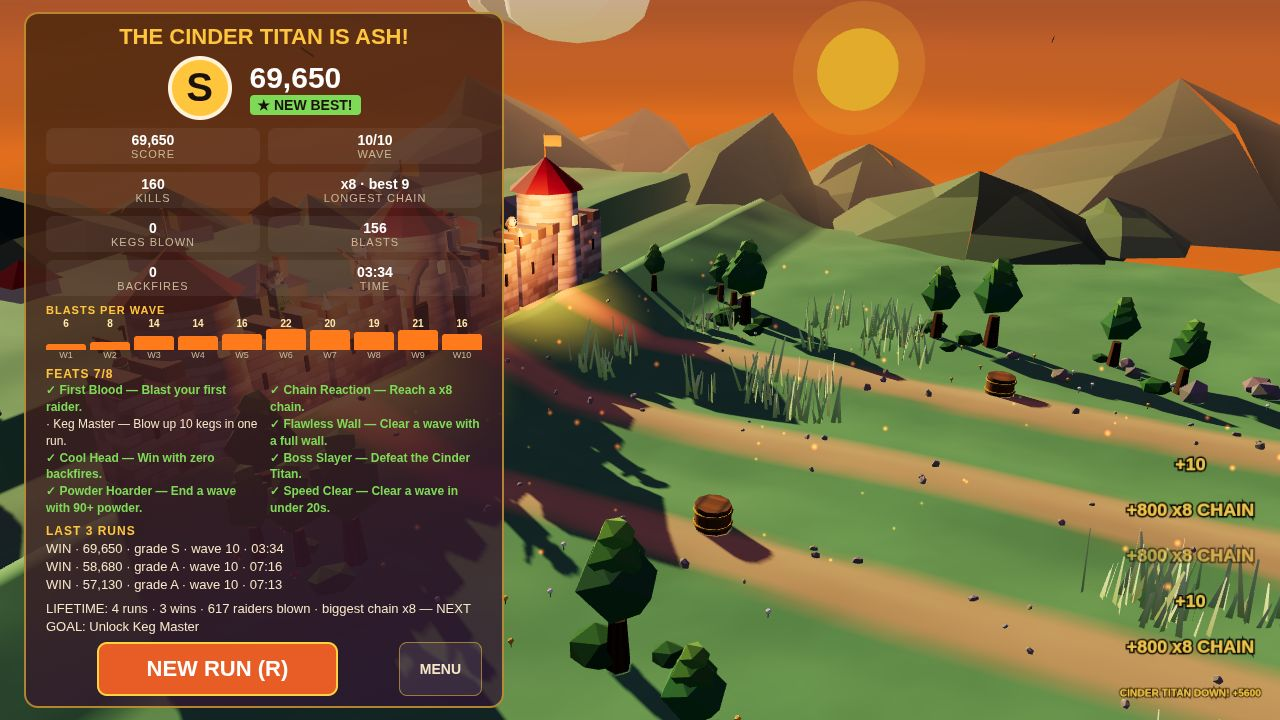
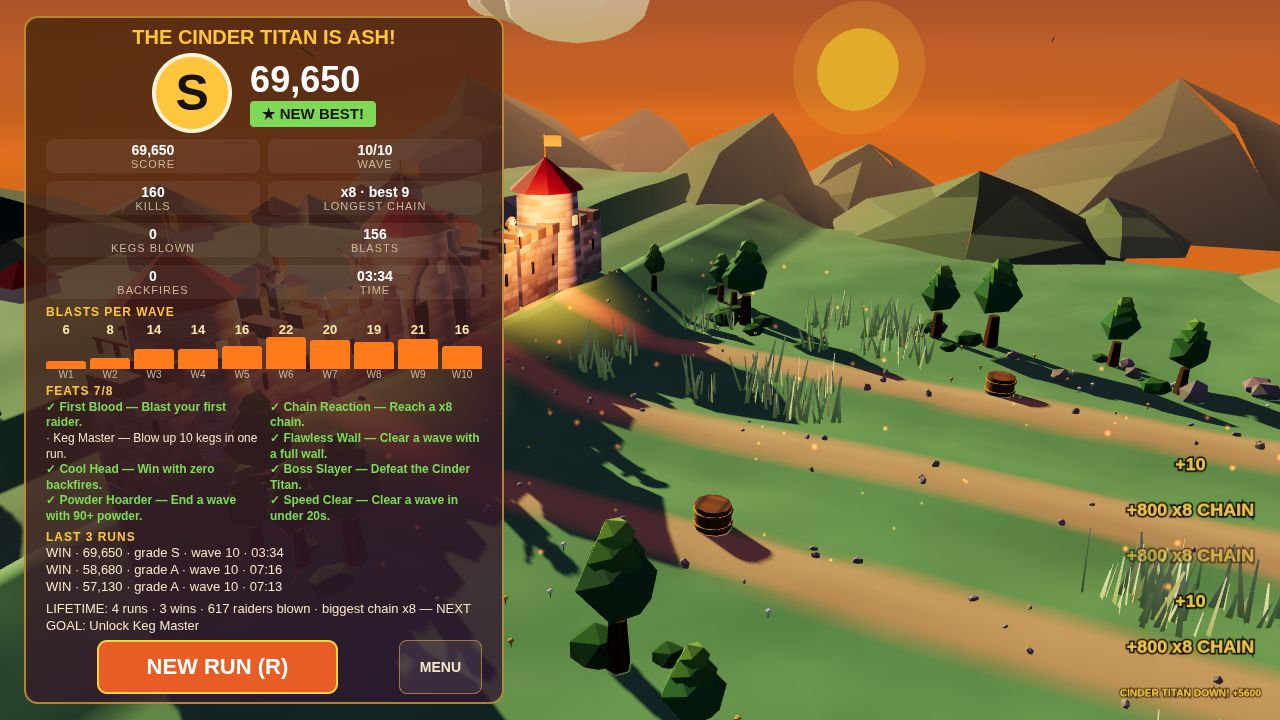
R4D: title panel smaller + translucent, draft backdrop + synergy legible, win chart thicker + GRADE S/NEW BEST dominant (Mark 00:51 WIB, items 8+E4, 11, 12+E3)
Title 600x501 (32.6%, alpha 0.62) -> 560x469 (28.5%, alpha 0.45):
fort + trail show through the panel; title 44->40px still one line;
roster 12->13px. Draft alpha 0.70->0.52; synergy 12->14px brighter.
Results: grade 64->80px, score 30->36px, NEW BEST 14->15px, chart
bars 42->58px with 13px numbers; panel 696.9->687.4px (tightening paid
for the growth). Numbers unchanged (BEST 69,650 / action 59,550 /
draft 21,050 / S 69,650). Determinism --twice MATCH 5/5, 0 errors.

Changed region(s): [[0.0312, 0.0, 0.4062, 0.825], [0.0, 0.8556, 0.4062, 1.0]]

diff --git a/game/index.html b/game/index.html
@@ -65,13 +65,17 @@
   .screen-title { align-items: flex-start; justify-content: flex-start; padding: 20px 0 0 24px; }
   .screen-results { align-items: center; justify-content: flex-start; padding: 12px 0 12px 24px; }
   .title-wrap, .draft-wrap, .results-wrap, .help-wrap { background: rgba(18, 14, 8, 0.70); border: 2px solid rgba(255, 197, 61, 0.6); border-radius: 14px; padding: 14px 20px; max-width: 1020px; width: 100%; color: #f5e6c8; }
-  .title-wrap { max-width: 600px; background: rgba(18, 14, 8, 0.62); }
+  .title-wrap { max-width: 560px; background: rgba(18, 14, 8, 0.45); padding: 10px 18px; text-shadow: 0 1px 3px rgba(0,0,0,0.85); }
+  /* ROUND 4 AGENT D (item 11): the draft backdrop was hidden behind a
+     0.70-alpha panel — 0.52 lets the fort + field show through; the
+     text-shadow keeps the cards legible over the bright world. */
+  .draft-wrap { background: rgba(18, 14, 8, 0.52); text-shadow: 0 1px 3px rgba(0,0,0,0.8); }
   .results-wrap { max-width: 480px; background: rgba(18, 14, 8, 0.62); }
   .results-wrap .stat-grid { grid-template-columns: repeat(2, 1fr); }
-  .game-title { font-size: 44px; font-weight: 900; letter-spacing: 4px; color: #ffc53d; text-align: center; text-shadow: 0 0 24px rgba(255, 180, 60, 0.6), 0 3px 0 #7a4a00; line-height: 1; }
-  .tagline { text-align: center; font-size: 15px; font-weight: bold; color: #ffe9a8; margin: 8px 0 12px; letter-spacing: 1px; }
-  .goal-line { text-align: center; font-size: 13px; font-weight: 900; color: #ffe9a8; margin-bottom: 10px; letter-spacing: 0.5px; }
-  .roster-line { font-size: 12px; line-height: 1.7; color: #c8b898; margin-bottom: 12px; text-align: center; }
+  .game-title { font-size: 40px; font-weight: 900; letter-spacing: 4px; color: #ffc53d; text-align: center; text-shadow: 0 0 24px rgba(255, 180, 60, 0.6), 0 3px 0 #7a4a00; line-height: 1; }
+  .tagline { text-align: center; font-size: 15px; font-weight: bold; color: #ffe9a8; margin: 6px 0 9px; letter-spacing: 1px; }
+  .goal-line { text-align: center; font-size: 13px; font-weight: 900; color: #ffe9a8; margin-bottom: 8px; letter-spacing: 0.5px; }
+  .roster-line { font-size: 13px; line-height: 1.7; color: #c8b898; margin-bottom: 9px; text-align: center; }
   .roster-line .roster-group { color: #ffc53d; font-weight: 900; letter-spacing: 1px; }
   .roster-line .roster-name { font-weight: bold; color: #f5e6c8; }
   .chip-row { display: grid; grid-template-columns: repeat(3, 1fr); gap: 8px; margin-bottom: 12px; }
@@ -88,12 +92,12 @@
   .how-strip { display: flex; align-items: center; gap: 6px; flex-wrap: wrap; justify-content: center; margin-bottom: 12px; font-size: 13px; }
   .how-step { background: rgba(255, 122, 26, 0.15); border: 1px solid rgba(255, 122, 26, 0.5); border-radius: 6px; padding: 5px 8px; font-weight: bold; }
   .how-arrow { color: #ffc53d; font-weight: bold; }
-  .diff-row { display: flex; gap: 8px; justify-content: center; margin-bottom: 10px; }
+  .diff-row { display: flex; gap: 8px; justify-content: center; margin-bottom: 8px; }
   .diff-btn { background: rgba(255,255,255,0.07); color: #f5e6c8; border: 2px solid rgba(255,197,61,0.4); border-radius: 8px; padding: 8px 18px; font-size: 14px; font-weight: bold; cursor: pointer; }
   .diff-btn.active { background: #ffc53d; color: #1a120c; }
-  .title-stats { display: flex; gap: 16px; justify-content: center; flex-wrap: wrap; font-size: 13px; font-weight: bold; color: #ffe9a8; margin-bottom: 12px; }
+  .title-stats { display: flex; gap: 16px; justify-content: center; flex-wrap: wrap; font-size: 13px; font-weight: bold; color: #ffe9a8; margin-bottom: 9px; }
   .play-btn { display: block; margin: 0 auto; background: #e85d26; color: #fff; border: 2px solid #ffd23f; border-radius: 10px; padding: 12px 48px; font-size: 22px; font-weight: 900; cursor: pointer; }
-  .controls-line { text-align: center; font-size: 12px; color: #c8b898; margin-top: 12px; }
+  .controls-line { text-align: center; font-size: 12px; color: #c8b898; margin-top: 9px; }
   .draft-title, .results-title, .help-title { font-size: 26px; font-weight: 900; color: #ffc53d; text-align: center; margin-bottom: 10px; }
   .draft-context { text-align: center; font-size: 13px; color: #ffe9a8; margin-bottom: 12px; }
   .card-row { display: flex; gap: 10px; justify-content: center; }
@@ -106,7 +110,7 @@
   .card-new { position: absolute; top: 8px; right: 8px; background: #e85d26; color: #fff; font-size: 11px; font-weight: 900; border-radius: 4px; padding: 2px 6px; }
   .card-name { font-size: 18px; font-weight: 900; margin: 6px 0 4px; }
   .card-effect { font-size: 15px; font-weight: bold; color: #ffe9a8; }
-  .card-synergy { font-size: 12px; color: #c8b898; margin-top: 6px; line-height: 1.4; }
+  .card-synergy { font-size: 14px; color: #e6d9b8; margin-top: 6px; line-height: 1.45; }
   .card-cost { font-size: 13px; font-weight: 900; color: #ffc53d; margin-top: 8px; }
   .draft-actions { display: flex; gap: 10px; justify-content: center; margin: 14px 0 8px; }
   .draft-btn { background: rgba(255,255,255,0.08); color: #f5e6c8; border: 1px solid rgba(255,197,61,0.5); border-radius: 8px; padding: 10px 20px; font-size: 14px; font-weight: bold; cursor: pointer; }
@@ -131,7 +135,7 @@
   .feats-title, .last3-title, .fors-title { font-size: 12px; font-weight: 900; color: #ffc53d; letter-spacing: 1px; }
   .feat.got { color: #7ed957; font-weight: bold; }
   .fors-item.met { color: #7ed957; }
-  .results-actions { display: flex; gap: 10px; justify-content: center; margin-top: 6px; }
+  .results-actions { display: flex; gap: 10px; justify-content: center; margin-top: 4px; }
   .help-row { display: flex; gap: 12px; margin-bottom: 8px; font-size: 14px; line-height: 1.4; }
   .help-key { min-width: 210px; font-weight: 900; color: #ffc53d; }
   /* ROUND 3 AGENT D — HUD additions (items 2, 3, 6, 7). */
@@ -167,14 +171,14 @@
   .event-banner { position: absolute; top: 38vh; left: 50%; transform: translateX(-50%); font-size: 56px; font-weight: 900; letter-spacing: 3px; color: #ffd23f; text-shadow: 0 0 18px rgba(255, 140, 30, 0.8), 0 3px 0 #7a4a00, 0 2px 8px rgba(0,0,0,0.8); white-space: nowrap; pointer-events: none; z-index: 7; }
   /* ROUND 3 AGENT D — title: how-to cards with diagrams (item 10) +
      THREAT → ANSWER roster (item 5). */
-  .how-strip { display: flex; gap: 8px; justify-content: center; margin-bottom: 10px; }
+  .how-strip { display: flex; gap: 8px; justify-content: center; margin-bottom: 8px; }
   .how-card { flex: 1; background: rgba(255, 122, 26, 0.12); border: 1px solid rgba(255, 122, 26, 0.45); border-radius: 8px; padding: 6px 8px 7px; text-align: center; }
-  .how-diagram { height: 28px; display: flex; align-items: center; justify-content: center; margin-bottom: 2px; }
+  .how-diagram { height: 24px; display: flex; align-items: center; justify-content: center; margin-bottom: 2px; }
   .how-card-title { font-size: 12px; font-weight: 900; color: #ffc53d; letter-spacing: 0.5px; }
   .how-card-text { font-size: 11px; line-height: 1.3; color: #f5e6c8; margin-top: 1px; }
-  .threat-table { margin-bottom: 10px; }
+  .threat-table { margin-bottom: 8px; }
   .threat-table-title { color: #ffc53d; font-size: 11px; font-weight: 900; letter-spacing: 1px; text-align: center; margin-bottom: 4px; }
-  .threat-table-row { display: flex; align-items: baseline; gap: 6px; font-size: 12px; line-height: 1.55; }
+  .threat-table-row { display: flex; align-items: baseline; gap: 6px; font-size: 13px; line-height: 1.45; }
   .threat-table-name { font-weight: 900; color: #f5e6c8; white-space: nowrap; }
   .threat-table-behavior { color: #c8b898; }
   .threat-table-arrow { color: #ffc53d; font-weight: 900; }
@@ -191,7 +195,7 @@
   /* ROUND 3 AGENT D — results: golden-hour gradient backdrop + NEW BEST
      badge (item 8). */
   .results-wrap { background: linear-gradient(160deg, rgba(74, 38, 10, 0.82), rgba(46, 22, 52, 0.78)); }
-  .new-best-badge { background: #7ed957; color: #1a120c; border-radius: 4px; padding: 2px 8px; display: inline-block; }
+  .new-best-badge { background: #7ed957; color: #1a120c; border-radius: 4px; padding: 4px 12px; display: inline-block; font-size: 15px; font-weight: 900; }
   @media (max-width: 760px) {
     .game-title { font-size: 40px; }
     .chip-row { grid-template-columns: repeat(2, 1fr); }
@@ -209,23 +213,29 @@
   }
   /* Results panel compaction (must fit 720px viewport; was 918px tall):
      these rules sit last so they win over the base rules above. */
-  .results-wrap { padding: 10px 20px; }
-  .results-title { font-size: 22px; margin-bottom: 6px; }
-  .grade-row { margin-bottom: 8px; }
-  .grade-circle { width: 64px; height: 64px; font-size: 40px; }
-  .score-num { font-size: 30px; }
-  .stat-grid { margin-bottom: 8px; }
-  .stat-cell { padding: 4px; }
+  /* ROUND 4 AGENT D (items 12+E3): GRADE S + NEW BEST dominant and the
+     per-wave chart thicker — the payoff must read at a glance. Grade
+     circle 64→80px, score 30→36px, badge 14→15px, chart bars 42→58px
+     with 13px numbers. The panel was already at the 696px limit, so
+     every added px is paid for by tightening (title 22→20px, stat
+     padding 4→3px, feats/last3 line-height 1.3/1.4→1.2/1.3, margins). */
+  .results-wrap { padding: 8px 20px; }
+  .results-title { font-size: 20px; margin-bottom: 4px; }
+  .grade-row { margin-bottom: 6px; }
+  .grade-circle { width: 80px; height: 80px; font-size: 50px; }
+  .score-num { font-size: 36px; }
+  .stat-grid { margin-bottom: 6px; }
+  .stat-cell { padding: 3px; }
   .stat-value { font-size: 14px; }
-  .chart { margin-bottom: 6px; }
-  .chart-title { font-size: 11px; margin-bottom: 2px; }
-  .chart-bars { height: 42px; }
-  .chart-num { font-size: 10px; }
-  .chart-wave { font-size: 9px; }
+  .chart { margin-bottom: 4px; }
+  .chart-title { font-size: 12px; margin-bottom: 3px; }
+  .chart-bars { height: 58px; }
+  .chart-num { font-size: 13px; font-weight: 900; }
+  .chart-wave { font-size: 10px; }
   .chart-fill-wrap { flex: 1; width: 100%; display: flex; align-items: flex-end; min-height: 0; }
-  .feats-box, .last3-box, .build-box, .goal-box, .fors-box, .lifetime-box { margin-bottom: 6px; line-height: 1.4; }
-  .feats-box { display: grid; grid-template-columns: 1fr 1fr; column-gap: 12px; font-size: 12px; line-height: 1.3; }
-  .feats-box, .last3-box, .build-box, .goal-box, .fors-box, .lifetime-box { margin-bottom: 6px; line-height: 1.4; }
+  .feats-box, .last3-box, .build-box, .goal-box, .fors-box, .lifetime-box { margin-bottom: 5px; line-height: 1.3; }
+  .feats-box { display: grid; grid-template-columns: 1fr 1fr; column-gap: 12px; font-size: 12px; line-height: 1.2; }
+  .feats-box, .last3-box, .build-box, .goal-box, .fors-box, .lifetime-box { margin-bottom: 5px; line-height: 1.3; }
   .feats-box { display: grid; grid-template-columns: 1fr 1fr; column-gap: 12px; }
   .feats-title { grid-column: 1 / -1; }
   .fors-box { display: grid; grid-template-columns: 1fr 1fr; column-gap: 12px; }
